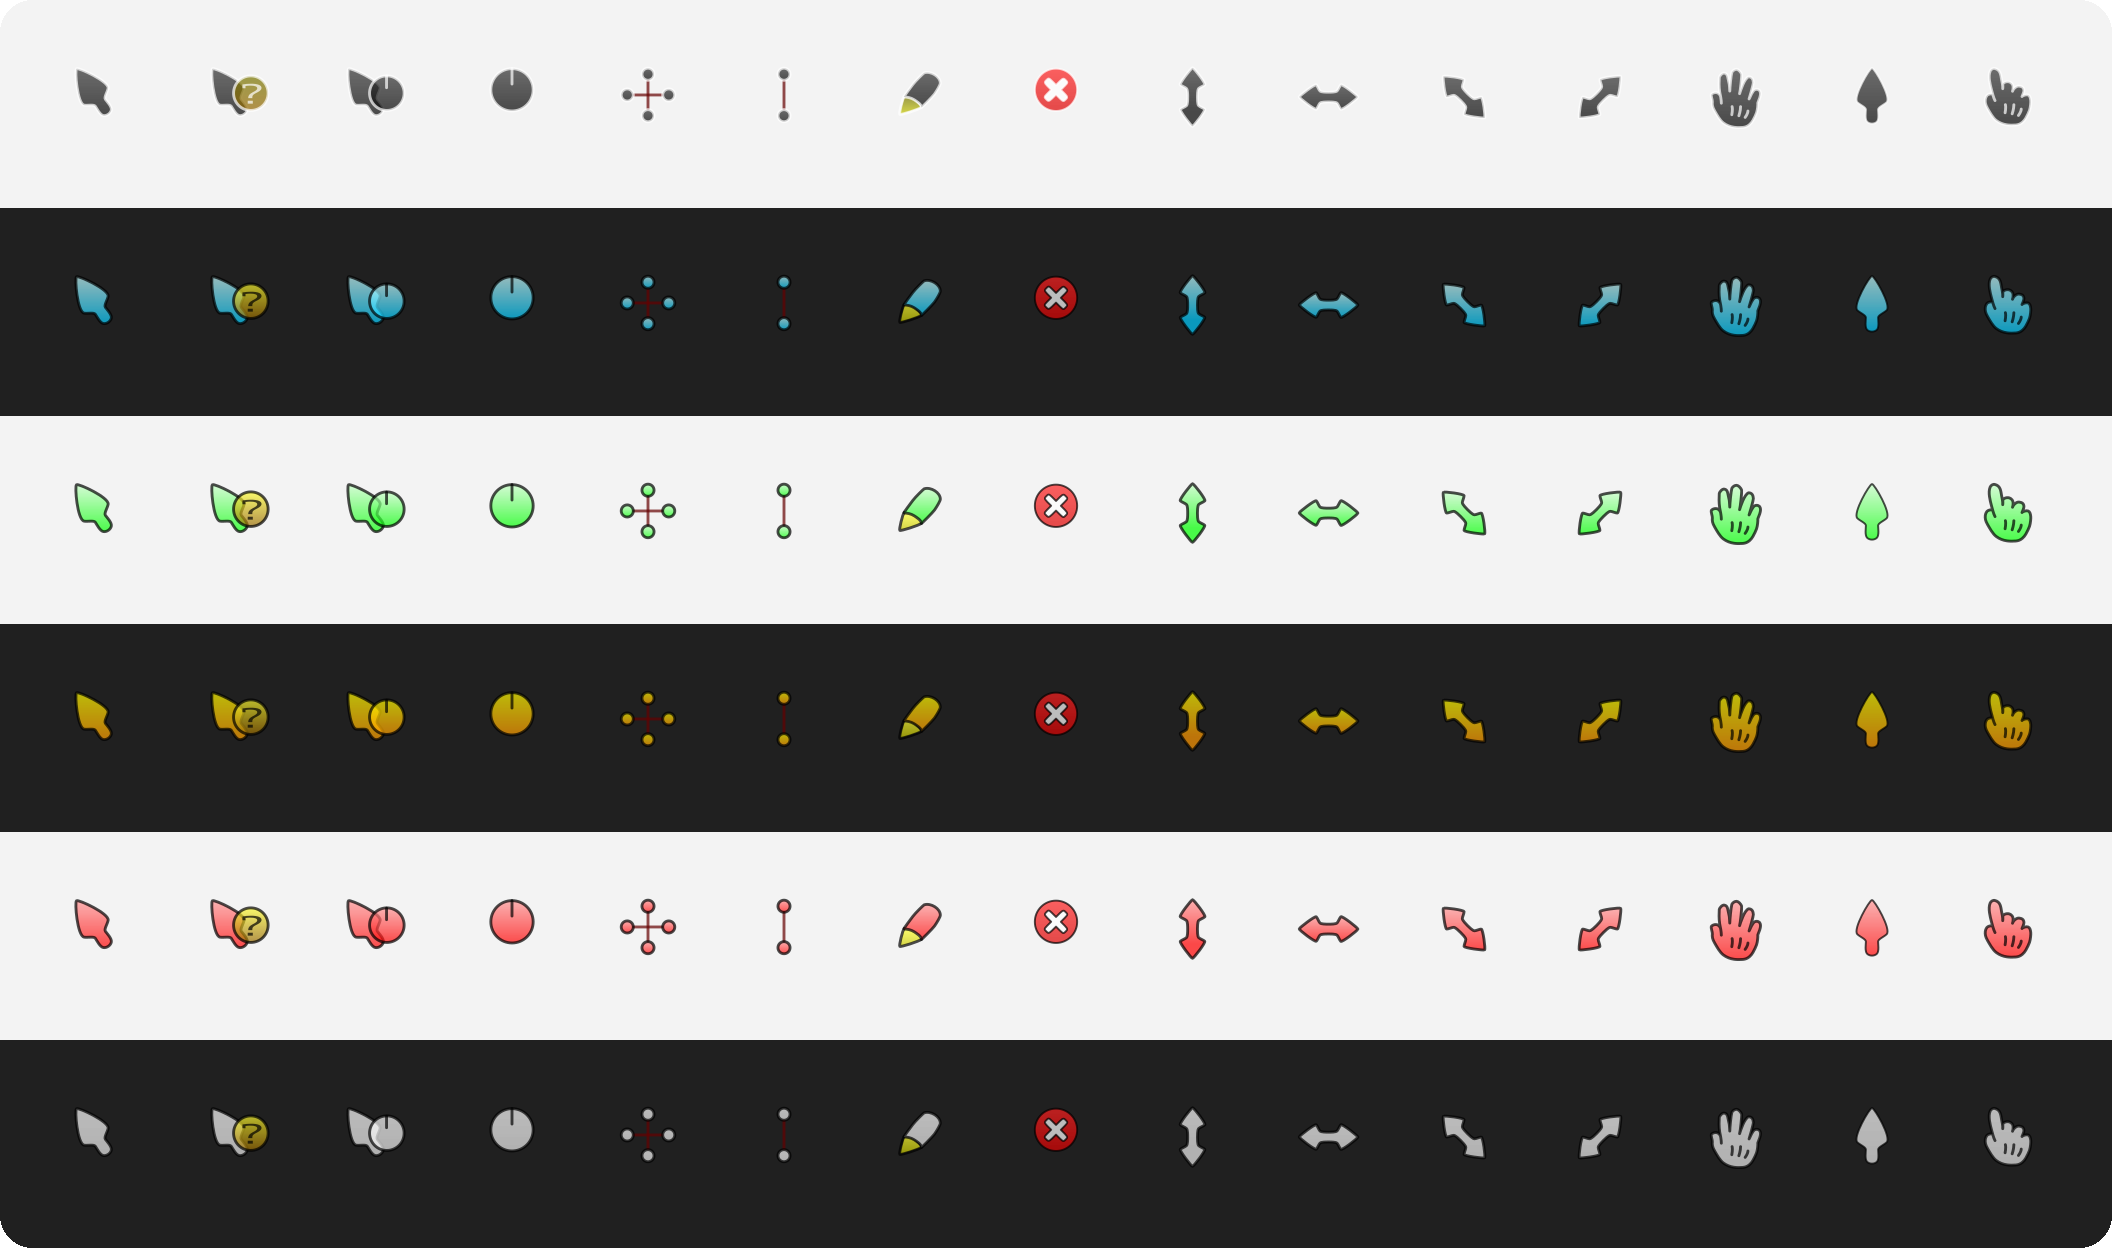
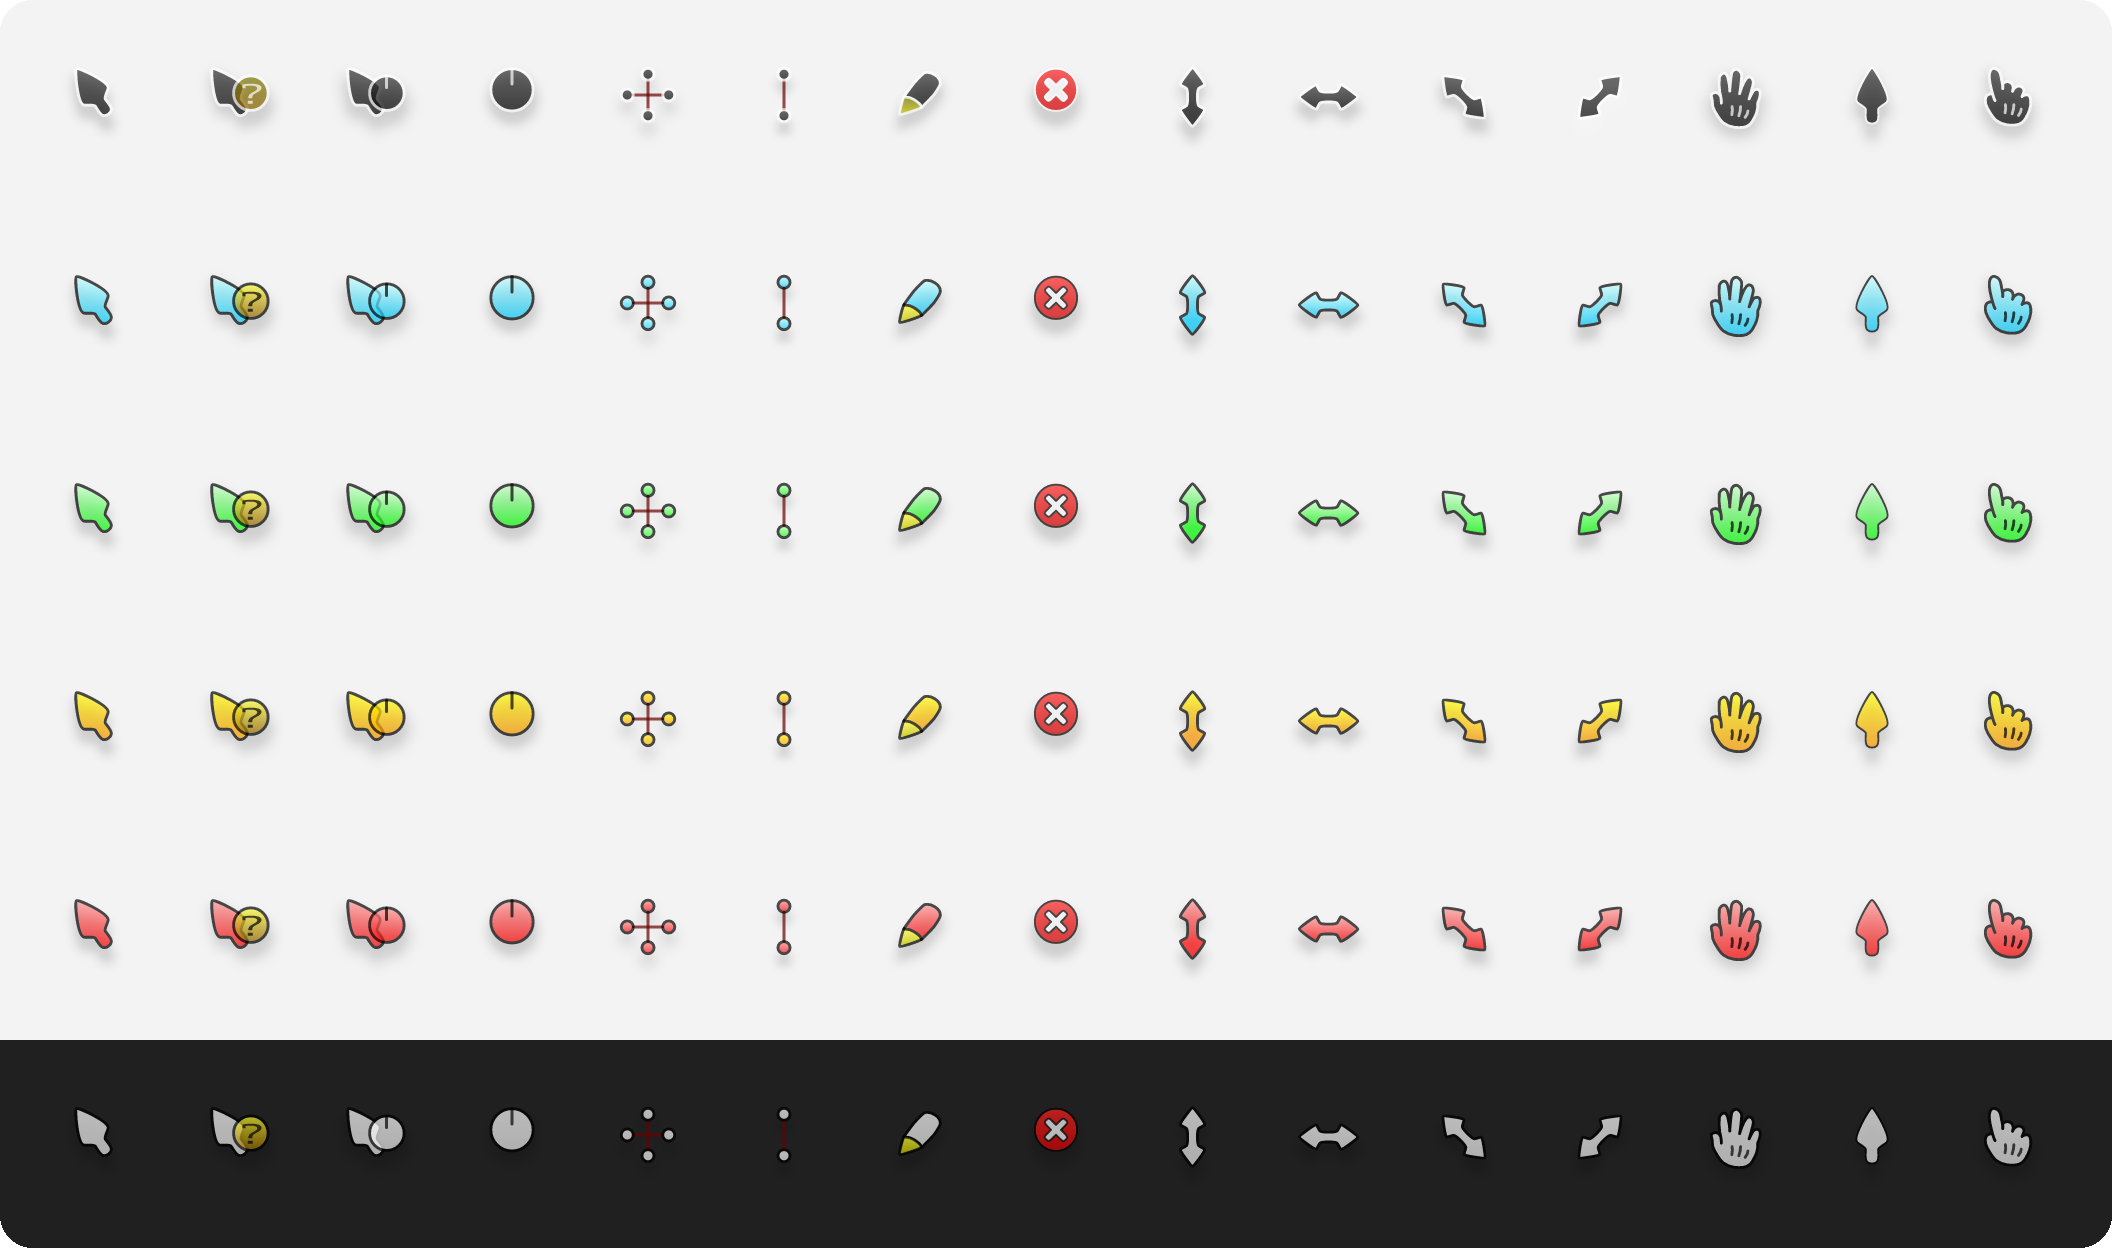
v0.1.1: keep upstream's shadow (Black family edges at size 1)
The Black variants have a white, 70 % outline on a dark body. Without upstream's
soft shadow that outline vanished on light backgrounds and the 32 px edges looked
rough (maintainer's on-screen check, Windows pointer shadow ON). strip_filtered =
false, renderer = resvg (soft blur; cairosvg draws it hard). Survey of every
shipped arrow in all repos: only this family has a light outline on a dark body.
Largest .ani 966 KB (< 1 MB). Previews redrawn.
Local: validate OK (48), Windows loader 816/816, .ani timing 144/144.

diff --git a/PORT_STATUS.md b/PORT_STATUS.md
@@ -31,12 +31,18 @@ Needs toolkit **v0.3.0** (single-file rotate, mirror_hotspots, LICENSE.GPL); not
 - **Animations:** one element rotated per frame about its own `rotate(0,cx,cy)` (ids path1441 / path1398 /
   flowRoot1441; LH files have mirrored centres, so the centre is read from the element). busy 36 x 10 deg,
   working 24 x 15 deg, help 2 x 180 deg; store build: 50 ms per frame, help 2000 + 500 ms -> 3 jiffies, [120, 30].
-- **Shadow:** faint blur filter. strip_filtered: 26 elements removed per variant, 0 artwork pixels changed (white
-  and lh-opaque-slim-black, all shipped sources). Halo scan (hidden shapes): clean.
+- **Shadow:** faint blur filter (26 filtered elements per variant). v0.1.0 stripped it (ADR-14). v0.1.1 KEEPS it
+  (maintainer, 2026-10-08, after seeing rough edges at size 1): the Black family has a LIGHT outline (white, 70 %)
+  on a DARK body; on light pages that outline only reads against upstream's shadow. 32 px comparison vs the store
+  build: store (rsvg + shadow) ~ resvg + shadow; without shadow the outline disappears on light backgrounds (both
+  renderers). Windows' pointer shadow was ON and did not compensate. renderer = resvg (cairosvg draws blur hard,
+  ADR-12). Outline/body survey of every shipped arrow (Polar, Material, Future, Comix, Capitaine, Layan, aero): only
+  the Comix Black family (and published Capitaine Dark, which has its own grey halo and looks clean) has a light
+  outline on a dark body. Halo scan (hidden shapes): clean.
 - **Move** = upstream's `all-scroll`, an open hand (Comix has no four-way arrow); hotspot (190,90) = fingertip.
-- **Sizes:** largest .ani 834 KB (< 1 MB budget); largest image offset 16,956 of 65,535; largest zip 2.9 MB.
-- **Load cost** (Windows 11 25H2, same run as aero): static 0.16-0.22 ms (aero 0.12-0.15), animated 2.4-4.7 ms at
-  32-96 px (aero 1.2-4.6), 33-47 ms at 256 px (aero 19-21); 0 GDI/USER handles leaked over 300 loads.
+- **Sizes:** v0.1.1 (shadow): largest .ani 966 KB (< 1 MB budget); largest image offset 22,253 of 65,535.
+- **Load cost** v0.1.1 (Windows 11 25H2, same run as aero): static 0.18-0.28 ms (aero 0.13-0.16), animated
+  2.5-6.5 ms at 32-96 px (aero 1.3-4.1), 32-49 ms at 256 px (aero 20); 0 GDI/USER handles leaked over 300 loads.
 - **Preview:** docs/preview.png = 6 colours (Regular, right-handed); docs/styles.png = Blue in Regular / Slim /
   Opaque / left-handed on one background (`preview --background light`).
 
@@ -49,5 +55,6 @@ Needs toolkit **v0.3.0** (single-file rotate, mirror_hotspots, LICENSE.GPL); not
 - [x] 48 variants generated from upstream configs; equivalence with upstream's sed proven
 - [x] `w11cursor build` + `validate` green locally (48); Test-LoadCursors 816/816; Get-AniFrameTiming 144/144
 - [x] README, CREDITS, previews
-- [ ] Toolkit v0.3.0 tagged; GitHub repo created
-- [ ] Installed and checked on screen; tag v0.1.0
+- [x] Toolkit v0.3.0 tagged; GitHub repo created (public); CI green (48 built, 816 loaded on Windows)
+- [x] Installed (Blue, Opaque Black, LH White) and checked on screen; v0.1.0 released (2026-10-08)
+- [ ] v0.1.1: upstream shadow kept (rough edges of the Black family at size 1)

diff --git a/README.md b/README.md
@@ -84,9 +84,9 @@ flips between images it has already decoded. Measured on Windows 11 25H2 against
 
 | | Comix | Windows aero |
 | --- | --- | --- |
-| Load a static cursor (32–96 px) | 0.2 ms | 0.1–0.2 ms |
-| Load an animated cursor (32–96 px) | 2–5 ms | 1–5 ms |
-| Load an animated cursor (256 px) | 33–47 ms | 19–21 ms |
+| Load a static cursor (32–96 px) | 0.2–0.3 ms | 0.1–0.2 ms |
+| Load an animated cursor (32–96 px) | 2–7 ms | 1–4 ms |
+| Load an animated cursor (256 px) | 32–49 ms | 20 ms |
 | GDI / USER handles left behind after 300 loads | 0 / 0 | 0 / 0 |
 
 Before every release, GitHub Actions loads every file with the real Windows cursor loader at several sizes; a
@@ -104,8 +104,9 @@ failure blocks the release.
 
 ## Tips
 
-- **Shadow:** the original theme drew a faint shadow into each image. Windows draws its own, so it isn't baked in
-  here. For the closest look, turn on **Settings › Accessibility › Mouse pointer and touch › Enable mouse pointer shadow**.
+- **Shadow:** the original's soft shadow is part of every image. It keeps the white outline of the Black variants
+  visible on light backgrounds. If **Settings › Accessibility › Mouse pointer and touch › Enable mouse pointer
+  shadow** is on, Windows adds its own small shadow as well; turn it off for exactly the original look.
 - **Left-handed:** Windows has no left-handed cursor setting; the LH schemes are the way to get mirrored pointers.
 
 ## Uninstall

diff --git a/CREDITS.md b/CREDITS.md
@@ -18,8 +18,8 @@ or (at your option) any later version") and [LICENSE.GPL](LICENSE.GPL) the full 
   generated by `tools/variants_from_configs.py`, and all 720 recoloured SVGs (48 variants x 15 cursors) were checked
   byte-identical to upstream's own substitution function.
 - All 48 themes from the gnome-look page: 6 colours x Regular/Slim x translucent/Opaque x right-/left-handed.
-- Drop shadow left out: upstream draws a faint blurred shadow (SVG filters). Rendered with and without it, no artwork
-  pixel changes. Windows draws its own pointer shadow (toolkit ADR-14).
+- Drop shadow kept as upstream draws it (a faint blurred shadow, rendered with resvg). v0.1.0 left it out (toolkit
+  ADR-14); without it the Black variants' white outline vanished on light backgrounds at small sizes.
 - Hotspots from upstream's `HOTSPOTS` (500 px units); left-handed variants mirror them (`500 - x`, as upstream's
   `svg/LeftHanded/HOTSPOTS` does for every Windows role).
 - Animations as upstream: one element rotated per frame about its own centre - busy 36 frames, working 24 frames,
